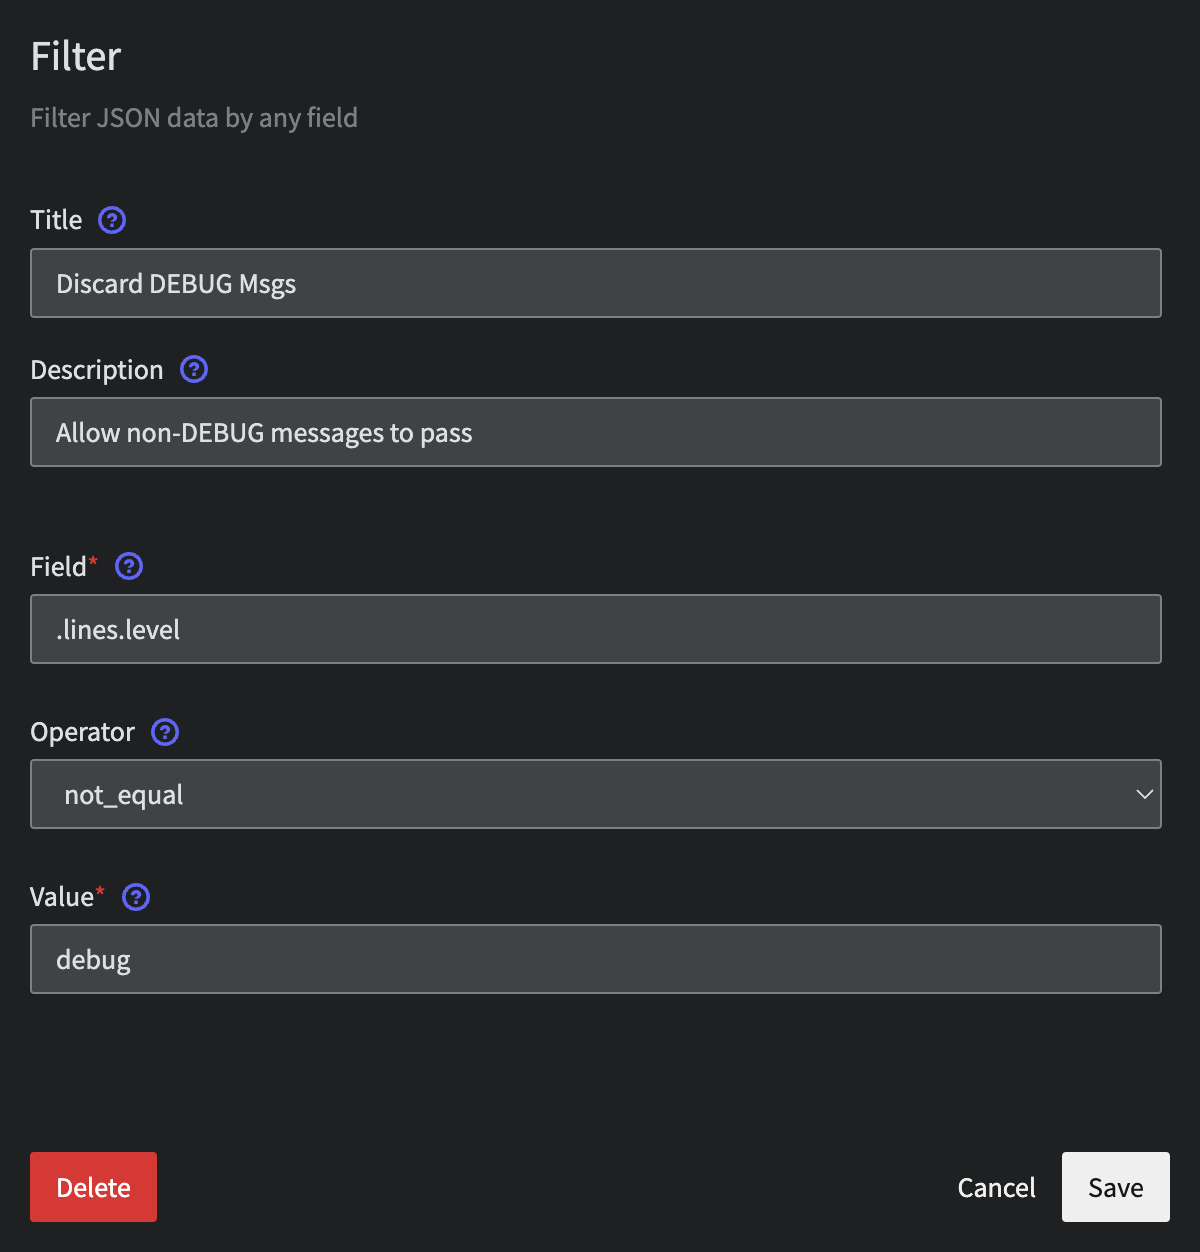
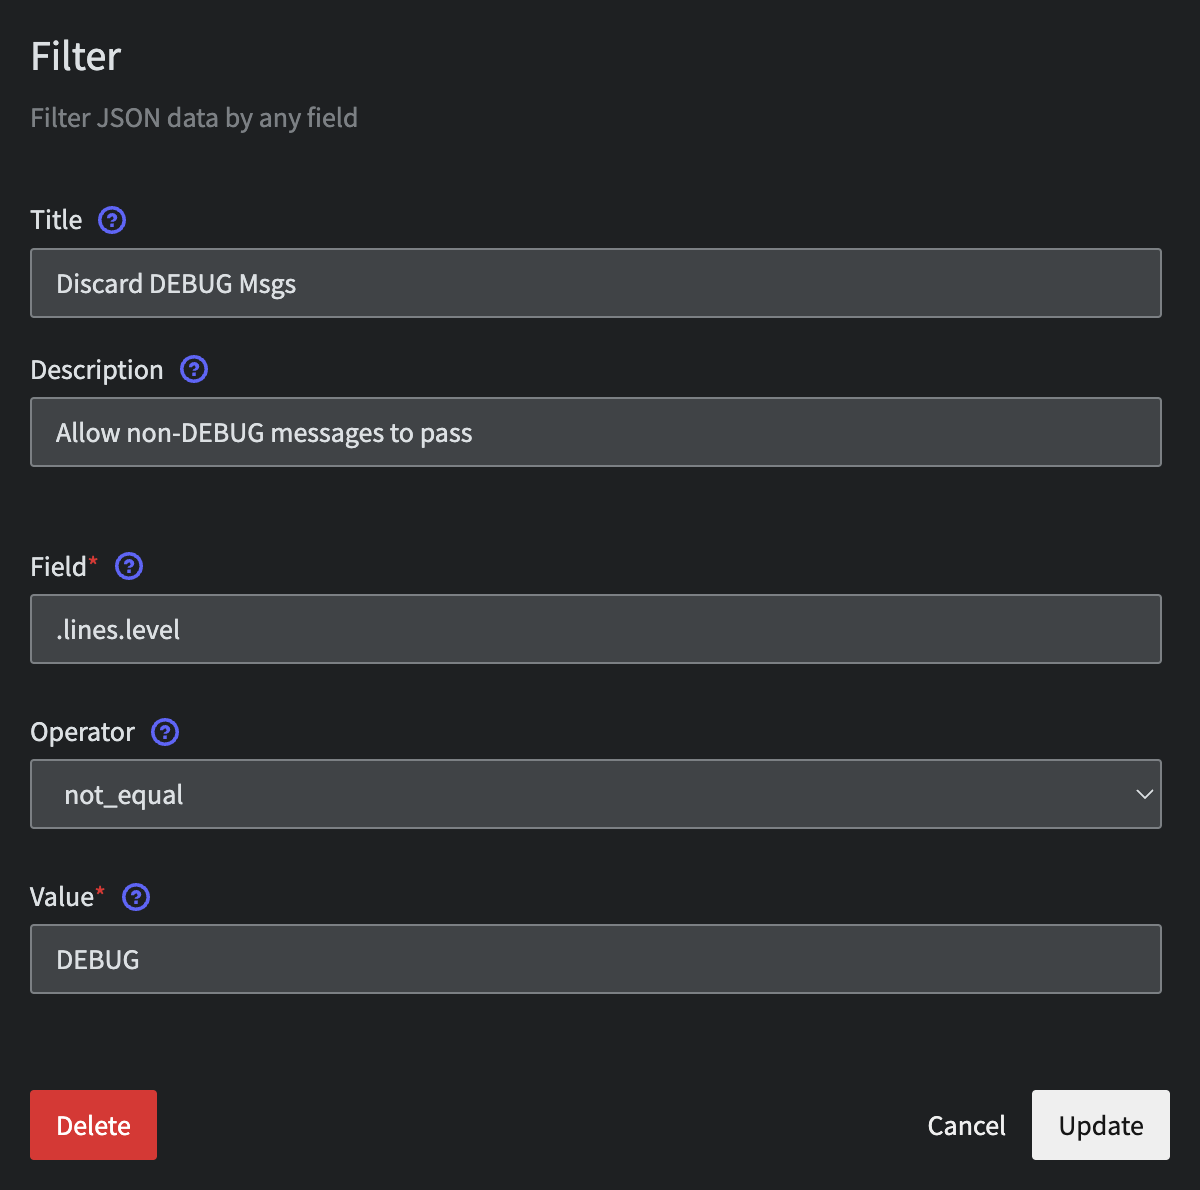
Updates due to the Filter processor now treating values as case-sensitive.

diff --git a/content/en/pet-clinic/docs/pipeline.md b/content/en/pet-clinic/docs/pipeline.md
@@ -129,7 +129,7 @@ For the purposes of this exercise, we will assume the PetClinic app is a 3rd par
     * add a meaningful **Description** such as `Allow non-DEBUG messages to pass`
     * set the **Field** value to `.lines.level` 
     * set the **Operator** to `not_equal`
-    * set the **Value** to `debug` (case is not important)
+    * set the **Value** to `DEBUG` (the value **is case-sensitive**)
 
     <br/>
     {{< figure src="../../images/configured-filter.png" alt="Configured - Filter" width="450">}}
